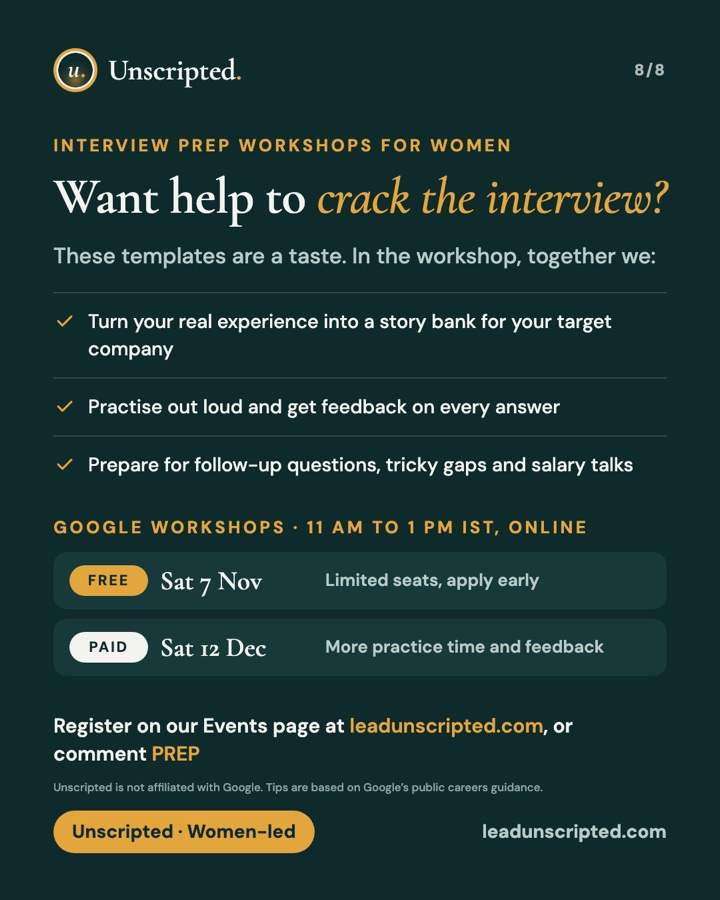
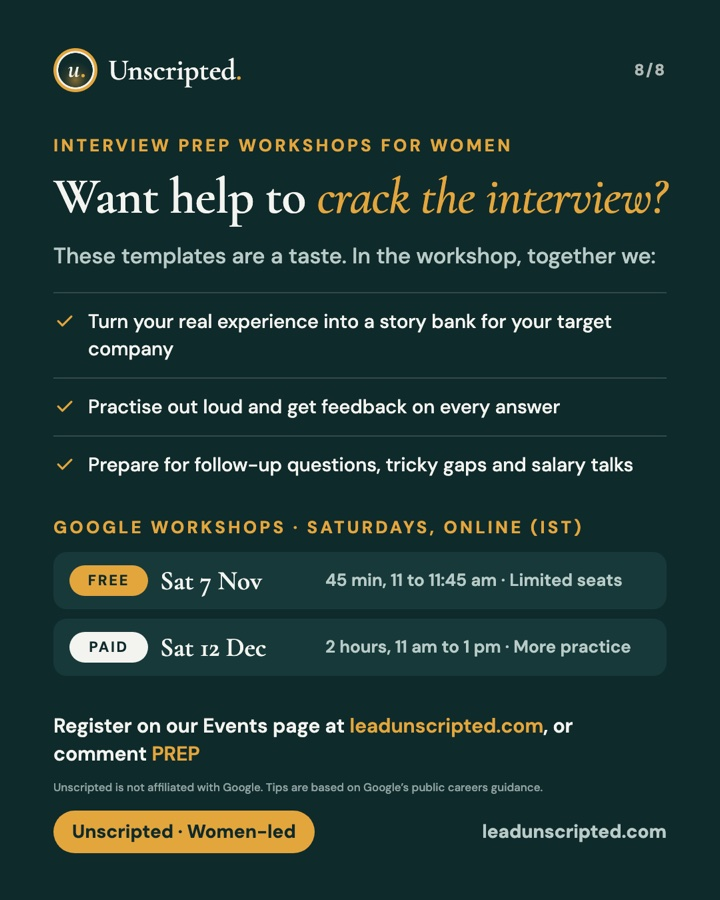
Free interview prep: 45 minutes, 11 to 11:45 am IST; paid stays 2 hours

Changed region(s): [[0.4583, 0.7156, 0.8861, 0.7467], [0.4583, 0.6222, 0.8556, 0.6533], [0.4278, 0.56, 0.825, 0.5911]]

diff --git a/events.html b/events.html
@@ -56,7 +56,7 @@
     <div class="head">
       <p class="eyebrow">Every Saturday, November and December</p>
       <h2>Interview prep workshops for women</h2>
-      <p class="lead">Have an interview coming up with Google, Amazon, Microsoft, Accenture or Deloitte? Each workshop focuses on one company: how it interviews, the answer method it expects, and question templates you fill with your own experience. Then you practise out loud and get feedback. November workshops are free, with limited seats. From December they are paid, with more practice time and feedback.</p>
+      <p class="lead">Have an interview coming up with Google, Amazon, Microsoft, Accenture or Deloitte? Each workshop focuses on one company: how it interviews, the answer method it expects, and question templates you fill with your own experience. Then you practise out loud and get feedback. November workshops are free 45-minute sessions, with limited seats. From December they are paid 2-hour workshops, with more practice time and feedback.</p>
     </div>
     <div class="prep-row">
       <div class="prep-cos"><span>Google</span><span>Amazon</span><span>Microsoft</span><span>Accenture</span><span>Deloitte</span></div>
@@ -237,7 +237,7 @@
   document.addEventListener('mousedown',hide);
 })();
 (function(){
-  var EV = [{"id": "prep-2026-11-07", "kind": "prep", "date": "2026-11-07", "title": "Interview prep: Google", "company": "Google", "slug": "google", "summary": "How Google interviews, the answer method to use, and templates you fill with your own stories. Practise out loud and get feedback. Free, with limited seats.", "time": "11:00 am to 1:00 pm IST", "where": "Online", "free": true, "img": "prep/google", "slides": 8}, {"id": "prep-2026-11-14", "kind": "prep", "date": "2026-11-14", "title": "Interview prep: Amazon", "company": "Amazon", "slug": "amazon", "summary": "How Amazon interviews, the answer method to use, and templates you fill with your own stories. Practise out loud and get feedback. Free, with limited seats.", "time": "11:00 am to 1:00 pm IST", "where": "Online", "free": true, "img": "prep/amazon", "slides": 8}, {"id": "prep-2026-11-21", "kind": "prep", "date": "2026-11-21", "title": "Interview prep: Microsoft", "company": "Microsoft", "slug": "microsoft", "summary": "How Microsoft interviews, the answer method to use, and templates you fill with your own stories. Practise out loud and get feedback. Free, with limited seats.", "time": "11:00 am to 1:00 pm IST", "where": "Online", "free": true, "img": "prep/microsoft", "slides": 8}, {"id": "prep-2026-11-28", "kind": "prep", "date": "2026-11-28", "title": "Interview prep: Accenture", "company": "Accenture", "slug": "accenture", "summary": "How Accenture interviews, the answer method to use, and templates you fill with your own stories. Practise out loud and get feedback. Free, with limited seats.", "time": "11:00 am to 1:00 pm IST", "where": "Online", "free": true, "img": "prep/accenture", "slides": 8}, {"id": "prep-2026-12-05", "kind": "prep", "date": "2026-12-05", "title": "Interview prep: Deloitte", "company": "Deloitte", "slug": "deloitte", "summary": "How Deloitte interviews, the answer method to use, and templates you fill with your own stories. Practise out loud and get feedback. Paid workshop, with more practice time and feedback. We email you the fee before you confirm your place.", "time": "11:00 am to 1:00 pm IST", "where": "Online", "free": false, "img": "prep/deloitte", "slides": 8}, {"id": "prep-2026-12-12", "kind": "prep", "date": "2026-12-12", "title": "Interview prep: Google", "company": "Google", "slug": "google", "summary": "How Google interviews, the answer method to use, and templates you fill with your own stories. Practise out loud and get feedback. Paid workshop, with more practice time and feedback. We email you the fee before you confirm your place.", "time": "11:00 am to 1:00 pm IST", "where": "Online", "free": false, "img": "prep/google", "slides": 8}, {"id": "prep-2026-12-19", "kind": "prep", "date": "2026-12-19", "title": "Interview prep: Amazon", "company": "Amazon", "slug": "amazon", "summary": "How Amazon interviews, the answer method to use, and templates you fill with your own stories. Practise out loud and get feedback. Paid workshop, with more practice time and feedback. We email you the fee before you confirm your place.", "time": "11:00 am to 1:00 pm IST", "where": "Online", "free": false, "img": "prep/amazon", "slides": 8}, {"id": "prep-2026-12-26", "kind": "prep", "date": "2026-12-26", "title": "Interview prep: Microsoft", "company": "Microsoft", "slug": "microsoft", "summary": "How Microsoft interviews, the answer method to use, and templates you fill with your own stories. Practise out loud and get feedback. Paid workshop, with more practice time and feedback. We email you the fee before you confirm your place.", "time": "11:00 am to 1:00 pm IST", "where": "Online", "free": false, "img": "prep/microsoft", "slides": 8}, {"id": "free-ai-2027-01-02", "kind": "free-ai", "date": "2027-01-02", "title": "AI, explained for your business", "summary": "What AI can and cannot do for a small business, and how to use it safely.", "part": "Part 1 of 13", "time": "11:00 am to 1:00 pm IST", "where": "Online", "free": true, "img": "ai/ai-01", "slides": 7}, {"id": "free-ai-2027-01-09", "kind": "free-ai", "date": "2027-01-09", "title": "Write it with AI", "summary": "Product descriptions, captions and customer messages, in your own voice.", "part": "Part 2 of 13", "time": "11:00 am to 1:00 pm IST", "where": "Online", "free": true, "img": "ai/ai-02", "slides": 7}, {"id": "free-ai-2027-01-16", "kind": "free-ai", "date": "2027-01-16", "title": "Your brand look with AI", "summary": "A simple logo, colours and fonts that look professional everywhere.", "part": "Part 3 of 13", "time": "11:00 am to 1:00 pm IST", "where": "Online", "free": true, "img": "ai/ai-03", "slides": 7}, {"id": "free-ai-2027-01-23", "kind": "free-ai", "date": "2027-01-23", "title": "Better product photos with AI", "summary": "Clean, bright product pictures and visuals from the photos on your phone.", "part": "Part 4 of 13", "time": "11:00 am to 1:00 pm IST", "where": "Online", "free": true, "img": "ai/ai-04", "slides": 7}, {"id": "free-ai-2027-01-30", "kind": "free-ai", "date": "2027-01-30", "title": "A month of posts in an afternoon", "summary": "Plan and make a month of social media posts for your business.", "part": "Part 5 of 13", "time": "11:00 am to 1:00 pm IST", "where": "Online", "free": true, "img": "ai/ai-05", "slides": 7}, {"id": "free-ai-2027-02-06", "kind": "free-ai", "date": "2027-02-06", "title": "WhatsApp Business, done well", "summary": "Your catalogue, quick replies and broadcast messages, with AI’s help.", "part": "Part 6 of 13", "time": "11:00 am to 1:00 pm IST", "where": "Online", "free": true, "img": "ai/ai-06", "slides": 7}, {"id": "free-ai-2027-02-13", "kind": "free-ai", "date": "2027-02-13", "title": "Your first simple website", "summary": "A one-page website for your business, built with AI, that you own.", "part": "Part 7 of 13", "time": "11:00 am to 1:00 pm IST", "where": "Online", "free": true, "img": "ai/ai-07", "slides": 7}, {"id": "free-ai-2027-02-20", "kind": "free-ai", "date": "2027-02-20", "title": "Pricing and simple accounts", "summary": "Work out your costs and prices, and keep track of money, with AI and a simple sheet.", "part": "Part 8 of 13", "time": "11:00 am to 1:00 pm IST", "where": "Online", "free": true, "img": "ai/ai-08", "slides": 7}, {"id": "free-ai-2027-02-27", "kind": "free-ai", "date": "2027-02-27", "title": "Customers and reviews", "summary": "Answer questions, handle complaints kindly and ask happy customers for reviews.", "part": "Part 9 of 13", "time": "11:00 am to 1:00 pm IST", "where": "Online", "free": true, "img": "ai/ai-09", "slides": 7}, {"id": "free-ai-2027-03-06", "kind": "free-ai", "date": "2027-03-06", "title": "Short videos and reels", "summary": "Scripts, captions and simple edits for short videos, with AI.", "part": "Part 10 of 13", "time": "11:00 am to 1:00 pm IST", "where": "Online", "free": true, "img": "ai/ai-10", "slides": 7}, {"id": "free-ai-2027-03-13", "kind": "free-ai", "date": "2027-03-13", "title": "Taking orders and payments online", "summary": "The simplest ways to take orders and get paid online, step by step.", "part": "Part 11 of 13", "time": "11:00 am to 1:00 pm IST", "where": "Online", "free": true, "img": "ai/ai-11", "slides": 7}, {"id": "free-ai-2027-03-20", "kind": "free-ai", "date": "2027-03-20", "title": "Stay safe online", "summary": "Spot scams, protect your accounts and keep your customers’ data safe.", "part": "Part 12 of 13", "time": "11:00 am to 1:00 pm IST", "where": "Online", "free": true, "img": "ai/ai-12", "slides": 7}, {"id": "free-ai-2027-03-27", "kind": "free-ai", "date": "2027-03-27", "title": "Your 90-day plan", "summary": "Bring it all together and leave with a plan for the next three months.", "part": "Part 13 of 13", "time": "11:00 am to 1:00 pm IST", "where": "Online", "free": true, "img": "ai/ai-13", "slides": 7}, {"id": "free-career-interviews", "kind": "free-career", "title": "Interview skills for women returning to work", "summary": "Prepare for interviews with confidence after a career break.", "free": true, "time": "Time to be announced", "where": "Online", "date": ""}, {"id": "free-career-cv", "kind": "free-career", "title": "Your CV, LinkedIn profile and cover letter", "summary": "Present your experience clearly, including the years you were away.", "free": true, "time": "Time to be announced", "where": "Online", "date": ""}, {"id": "free-career-presence", "kind": "free-career", "title": "Confidence and presence at work", "summary": "Speak up, be heard and present yourself with confidence.", "free": true, "time": "Time to be announced", "where": "Online", "date": ""}, {"id": "paid-ai-l1", "kind": "paid", "title": "Launch your business with AI, in a day", "summary": "Level 1, Foundation. The paid one-day Saturday workshop, 9:45 am to 5:00 pm, online.", "free": false, "href": "index.html#reg-ai-owners", "more": "ai-literacy.html#workshop", "time": "Time to be announced", "where": "Online", "date": ""}, {"id": "paid-ai-l2", "kind": "paid", "title": "Launch and run with AI: the 2-day programme", "summary": "Level 2, Intermediate. Two Saturdays, paid.", "free": false, "href": "index.html#reg-ai-business-2-day", "more": "training-ai-business-2-day.html", "time": "Time to be announced", "where": "Online", "date": ""}, {"id": "paid-ai-l3", "kind": "paid", "title": "Grow your business online with AI: the 4-day programme", "summary": "Level 3, Advanced. Four Saturdays, paid.", "free": false, "href": "index.html#reg-ai-business-programme", "more": "training-ai-business-programme.html", "time": "Time to be announced", "where": "Online", "date": ""}, {"id": "trainers-ai", "kind": "trainers", "title": "AI literacy for trainers", "summary": "Free for trainers who join our Founding 50.", "free": true, "href": "train-with-us.html#founding", "more": "train-with-us.html", "time": "Time to be announced", "where": "Online", "date": ""}];
+  var EV = [{"id": "prep-2026-11-07", "kind": "prep", "date": "2026-11-07", "title": "Interview prep: Google", "company": "Google", "slug": "google", "summary": "How Google interviews, the answer method to use, and templates you fill with your own stories. Practise out loud and get feedback. A free 45-minute session, with limited seats.", "time": "11:00 to 11:45 am IST", "where": "Online", "free": true, "img": "prep/google", "slides": 8}, {"id": "prep-2026-11-14", "kind": "prep", "date": "2026-11-14", "title": "Interview prep: Amazon", "company": "Amazon", "slug": "amazon", "summary": "How Amazon interviews, the answer method to use, and templates you fill with your own stories. Practise out loud and get feedback. A free 45-minute session, with limited seats.", "time": "11:00 to 11:45 am IST", "where": "Online", "free": true, "img": "prep/amazon", "slides": 8}, {"id": "prep-2026-11-21", "kind": "prep", "date": "2026-11-21", "title": "Interview prep: Microsoft", "company": "Microsoft", "slug": "microsoft", "summary": "How Microsoft interviews, the answer method to use, and templates you fill with your own stories. Practise out loud and get feedback. A free 45-minute session, with limited seats.", "time": "11:00 to 11:45 am IST", "where": "Online", "free": true, "img": "prep/microsoft", "slides": 8}, {"id": "prep-2026-11-28", "kind": "prep", "date": "2026-11-28", "title": "Interview prep: Accenture", "company": "Accenture", "slug": "accenture", "summary": "How Accenture interviews, the answer method to use, and templates you fill with your own stories. Practise out loud and get feedback. A free 45-minute session, with limited seats.", "time": "11:00 to 11:45 am IST", "where": "Online", "free": true, "img": "prep/accenture", "slides": 8}, {"id": "prep-2026-12-05", "kind": "prep", "date": "2026-12-05", "title": "Interview prep: Deloitte", "company": "Deloitte", "slug": "deloitte", "summary": "How Deloitte interviews, the answer method to use, and templates you fill with your own stories. Practise out loud and get feedback. A paid 2-hour workshop, with more practice time and feedback. We email you the fee before you confirm your place.", "time": "11:00 am to 1:00 pm IST", "where": "Online", "free": false, "img": "prep/deloitte", "slides": 8}, {"id": "prep-2026-12-12", "kind": "prep", "date": "2026-12-12", "title": "Interview prep: Google", "company": "Google", "slug": "google", "summary": "How Google interviews, the answer method to use, and templates you fill with your own stories. Practise out loud and get feedback. A paid 2-hour workshop, with more practice time and feedback. We email you the fee before you confirm your place.", "time": "11:00 am to 1:00 pm IST", "where": "Online", "free": false, "img": "prep/google", "slides": 8}, {"id": "prep-2026-12-19", "kind": "prep", "date": "2026-12-19", "title": "Interview prep: Amazon", "company": "Amazon", "slug": "amazon", "summary": "How Amazon interviews, the answer method to use, and templates you fill with your own stories. Practise out loud and get feedback. A paid 2-hour workshop, with more practice time and feedback. We email you the fee before you confirm your place.", "time": "11:00 am to 1:00 pm IST", "where": "Online", "free": false, "img": "prep/amazon", "slides": 8}, {"id": "prep-2026-12-26", "kind": "prep", "date": "2026-12-26", "title": "Interview prep: Microsoft", "company": "Microsoft", "slug": "microsoft", "summary": "How Microsoft interviews, the answer method to use, and templates you fill with your own stories. Practise out loud and get feedback. A paid 2-hour workshop, with more practice time and feedback. We email you the fee before you confirm your place.", "time": "11:00 am to 1:00 pm IST", "where": "Online", "free": false, "img": "prep/microsoft", "slides": 8}, {"id": "free-ai-2027-01-02", "kind": "free-ai", "date": "2027-01-02", "title": "AI, explained for your business", "summary": "What AI can and cannot do for a small business, and how to use it safely.", "part": "Part 1 of 13", "time": "11:00 am to 1:00 pm IST", "where": "Online", "free": true, "img": "ai/ai-01", "slides": 7}, {"id": "free-ai-2027-01-09", "kind": "free-ai", "date": "2027-01-09", "title": "Write it with AI", "summary": "Product descriptions, captions and customer messages, in your own voice.", "part": "Part 2 of 13", "time": "11:00 am to 1:00 pm IST", "where": "Online", "free": true, "img": "ai/ai-02", "slides": 7}, {"id": "free-ai-2027-01-16", "kind": "free-ai", "date": "2027-01-16", "title": "Your brand look with AI", "summary": "A simple logo, colours and fonts that look professional everywhere.", "part": "Part 3 of 13", "time": "11:00 am to 1:00 pm IST", "where": "Online", "free": true, "img": "ai/ai-03", "slides": 7}, {"id": "free-ai-2027-01-23", "kind": "free-ai", "date": "2027-01-23", "title": "Better product photos with AI", "summary": "Clean, bright product pictures and visuals from the photos on your phone.", "part": "Part 4 of 13", "time": "11:00 am to 1:00 pm IST", "where": "Online", "free": true, "img": "ai/ai-04", "slides": 7}, {"id": "free-ai-2027-01-30", "kind": "free-ai", "date": "2027-01-30", "title": "A month of posts in an afternoon", "summary": "Plan and make a month of social media posts for your business.", "part": "Part 5 of 13", "time": "11:00 am to 1:00 pm IST", "where": "Online", "free": true, "img": "ai/ai-05", "slides": 7}, {"id": "free-ai-2027-02-06", "kind": "free-ai", "date": "2027-02-06", "title": "WhatsApp Business, done well", "summary": "Your catalogue, quick replies and broadcast messages, with AI’s help.", "part": "Part 6 of 13", "time": "11:00 am to 1:00 pm IST", "where": "Online", "free": true, "img": "ai/ai-06", "slides": 7}, {"id": "free-ai-2027-02-13", "kind": "free-ai", "date": "2027-02-13", "title": "Your first simple website", "summary": "A one-page website for your business, built with AI, that you own.", "part": "Part 7 of 13", "time": "11:00 am to 1:00 pm IST", "where": "Online", "free": true, "img": "ai/ai-07", "slides": 7}, {"id": "free-ai-2027-02-20", "kind": "free-ai", "date": "2027-02-20", "title": "Pricing and simple accounts", "summary": "Work out your costs and prices, and keep track of money, with AI and a simple sheet.", "part": "Part 8 of 13", "time": "11:00 am to 1:00 pm IST", "where": "Online", "free": true, "img": "ai/ai-08", "slides": 7}, {"id": "free-ai-2027-02-27", "kind": "free-ai", "date": "2027-02-27", "title": "Customers and reviews", "summary": "Answer questions, handle complaints kindly and ask happy customers for reviews.", "part": "Part 9 of 13", "time": "11:00 am to 1:00 pm IST", "where": "Online", "free": true, "img": "ai/ai-09", "slides": 7}, {"id": "free-ai-2027-03-06", "kind": "free-ai", "date": "2027-03-06", "title": "Short videos and reels", "summary": "Scripts, captions and simple edits for short videos, with AI.", "part": "Part 10 of 13", "time": "11:00 am to 1:00 pm IST", "where": "Online", "free": true, "img": "ai/ai-10", "slides": 7}, {"id": "free-ai-2027-03-13", "kind": "free-ai", "date": "2027-03-13", "title": "Taking orders and payments online", "summary": "The simplest ways to take orders and get paid online, step by step.", "part": "Part 11 of 13", "time": "11:00 am to 1:00 pm IST", "where": "Online", "free": true, "img": "ai/ai-11", "slides": 7}, {"id": "free-ai-2027-03-20", "kind": "free-ai", "date": "2027-03-20", "title": "Stay safe online", "summary": "Spot scams, protect your accounts and keep your customers’ data safe.", "part": "Part 12 of 13", "time": "11:00 am to 1:00 pm IST", "where": "Online", "free": true, "img": "ai/ai-12", "slides": 7}, {"id": "free-ai-2027-03-27", "kind": "free-ai", "date": "2027-03-27", "title": "Your 90-day plan", "summary": "Bring it all together and leave with a plan for the next three months.", "part": "Part 13 of 13", "time": "11:00 am to 1:00 pm IST", "where": "Online", "free": true, "img": "ai/ai-13", "slides": 7}, {"id": "free-career-interviews", "kind": "free-career", "title": "Interview skills for women returning to work", "summary": "Prepare for interviews with confidence after a career break.", "free": true, "time": "Time to be announced", "where": "Online", "date": ""}, {"id": "free-career-cv", "kind": "free-career", "title": "Your CV, LinkedIn profile and cover letter", "summary": "Present your experience clearly, including the years you were away.", "free": true, "time": "Time to be announced", "where": "Online", "date": ""}, {"id": "free-career-presence", "kind": "free-career", "title": "Confidence and presence at work", "summary": "Speak up, be heard and present yourself with confidence.", "free": true, "time": "Time to be announced", "where": "Online", "date": ""}, {"id": "paid-ai-l1", "kind": "paid", "title": "Launch your business with AI, in a day", "summary": "Level 1, Foundation. The paid one-day Saturday workshop, 9:45 am to 5:00 pm, online.", "free": false, "href": "index.html#reg-ai-owners", "more": "ai-literacy.html#workshop", "time": "Time to be announced", "where": "Online", "date": ""}, {"id": "paid-ai-l2", "kind": "paid", "title": "Launch and run with AI: the 2-day programme", "summary": "Level 2, Intermediate. Two Saturdays, paid.", "free": false, "href": "index.html#reg-ai-business-2-day", "more": "training-ai-business-2-day.html", "time": "Time to be announced", "where": "Online", "date": ""}, {"id": "paid-ai-l3", "kind": "paid", "title": "Grow your business online with AI: the 4-day programme", "summary": "Level 3, Advanced. Four Saturdays, paid.", "free": false, "href": "index.html#reg-ai-business-programme", "more": "training-ai-business-programme.html", "time": "Time to be announced", "where": "Online", "date": ""}, {"id": "trainers-ai", "kind": "trainers", "title": "AI literacy for trainers", "summary": "Free for trainers who join our Founding 50.", "free": true, "href": "train-with-us.html#founding", "more": "train-with-us.html", "time": "Time to be announced", "where": "Online", "date": ""}];
   function cap(name){ return window.claude && window.claude.use ? window.claude.use(name) : Promise.resolve(null) }
   var MONTHS=['January','February','March','April','May','June','July','August','September','October','November','December'];
   var DAYS=['Sun','Mon','Tue','Wed','Thu','Fri','Sat'];
